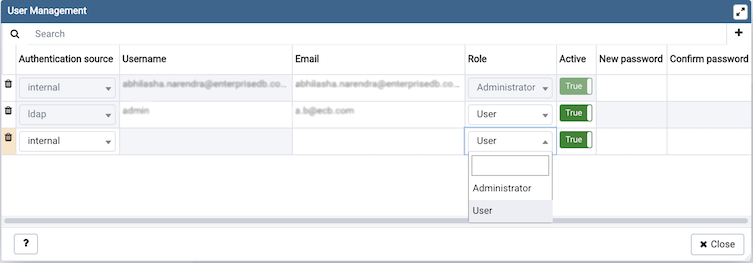
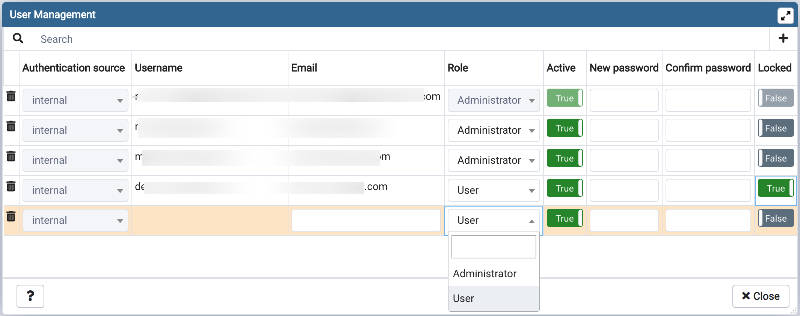
1. Unverified email id is getting locked. 2. Admin should be able to lock the user, as currently it only unlocks it via    user management dialog. 3. There were some indefinite login page loading issues when trying to log in    with invalid password, where it should redirect to the login page again 
refs #6337 (Initial patch by Khushboo Vashi)

diff --git a/web/pgadmin/tools/user_management/static/js/user_management.js b/web/pgadmin/tools/user_management/static/js/user_management.js
@@ -444,9 +444,6 @@ define([
             disabled: false,
             sortable: false,
             editable: function (m){
-              if (!m.get('locked')) {
-                return false;
-              }
               return (m.get('id') != userInfo['id']);
             },
           }],

diff --git a/web/pgadmin/tools/user_management/__init__.py b/web/pgadmin/tools/user_management/__init__.py
@@ -129,9 +129,12 @@ def validate_user(data):
     if 'auth_source' in data and data['auth_source'] != "":
         new_data['auth_source'] = data['auth_source']
 
-    if 'locked' in data and not data['locked']:
+    if 'locked' in data and type(data['locked']) == bool:
         new_data['locked'] = data['locked']
-        new_data['login_attempts'] = 0
+        if data['locked']:
+            new_data['login_attempts'] = config.MAX_LOGIN_ATTEMPTS
+        else:
+            new_data['login_attempts'] = 0
 
     return new_data
 

diff --git a/web/config.py b/web/config.py
@@ -583,6 +583,10 @@ AUTHENTICATION_SOURCES = ['internal']
 MAX_LOGIN_ATTEMPTS = 3
 
 ##########################################################################
+# Only consider password to check the failed login attempts, email is
+# excluded from this check
+LOGIN_ATTEMPT_FIELDS = ['password']
+##########################################################################
 # LDAP Configuration
 ##########################################################################
 

diff --git a/web/pgadmin/authenticate/__init__.py b/web/pgadmin/authenticate/__init__.py
@@ -74,7 +74,7 @@ def login():
     if not auth_obj.validate():
         for field in form.errors:
             flash_login_attempt_error = None
-            if user:
+            if user and field in config.LOGIN_ATTEMPT_FIELDS:
                 if config.MAX_LOGIN_ATTEMPTS > 0:
                     user.login_attempts += 1
                     left_attempts = \

diff --git a/docs/en_US/restore_locked_user.rst b/docs/en_US/restore_locked_user.rst
@@ -1,0 +1,50 @@
+.. _restore_locked_user:
+
+*****************************
+`Lock/Restore Account`:index:
+*****************************
+
+Account locking/unlocking via user management dialog:
+
+An admin can lock and unlock user from the user management dialog. This allows the admin to lock or restore
+the user when there are several failed login attempts. This page guides you through configuring per-user
+locking/restoring. For more details visit :ref:`User management <user_management>`.
+
+.. csv-table::
+   :header: "**Parameter**", "**Description**"
+   :class: longtable
+   :widths: 35, 55
+
+    "MAX_LOGIN_ATTEMPTS", "Which sets the number of failed login that
+   are allowed. If this value is exceeded, the account is locked and can be reset by an administrator.
+   By setting the variable to the value zero this feature is deactivated."
+
+
+When Administrator itself gets locked, following steps may be considered to restore it:
+
+- Increase MAX_LOGIN_ATTEMPTS, and try to successfully login to restore the account.
+
+OR
+
+By updating SQLite DB (pgAdmin4.db):
+
+* Locate the pgAdmin4.db file and open it using any DB Browser (or DB Browser for SQLite)
+* After opening the DB file, head towards 'Execute SQL' section.
+* Run below query -
+
+*UPDATE USER SET LOCKED = false, LOGIN_ATTEMPTS = 0 WHERE USERNAME = <YOUR_EMAIL_ID>*
+
+* Make sure the query changes are committed.
+
+Account locking by failed login attempts:
+
+.. image:: images/login_attempt_user.png
+    :alt: Failed login attempt for current user
+    :align: center
+
+pgAdmin application is configured to lock a user account when a number of consecutive failed login attempts are
+exceeded.
+
+MAX_LOGIN_ATTEMPTS is defaulted to 3 unsuccessful login attempts, after which the account would be locked.
+
+The only way to restore the user account is by contacting the Administrator and ask to unlock it.

diff --git a/docs/en_US/user_management.rst b/docs/en_US/user_management.rst
@@ -58,6 +58,8 @@ Provide information about the new pgAdmin role in the row:
   as authentication source since LDAP password is not stored in the pgAdmin database.
 * Re-enter the password in the *Confirm password* field. This field is disabled
   if you select *ldap* as authentication source.
+* Move the *Locked* switch to the *True* position if you want to lock the account;
+  the default is *False*. This functionality is useful when a user is locked by trying unsuccessful login attempts.
 
 To discard a user, and revoke access to pgAdmin, click the trash icon to the
 left of the row and confirm deletion in the *Delete user?* dialog.

diff --git a/docs/en_US/getting_started.rst b/docs/en_US/getting_started.rst
@@ -35,6 +35,7 @@ Mode is pre-configured for security.
    login
    user_management
    change_user_password
+   restore_locked_user
    ldap
    kerberos
    oauth2
